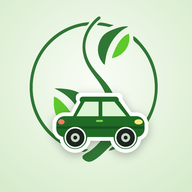
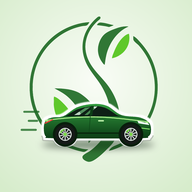
ไอคอนแอป: เปลี่ยนเป็นรถสปอร์ต ล้อแม็ก ไฟ LED
Claude-Session: https://claude.ai/code/session_01LF5UMseUCPsGUhdau5Lo9j

Changed region(s): [[0.0938, 0.4688, 0.8125, 0.8125]]

diff --git a/app.js b/app.js
@@ -223,7 +223,7 @@ function installCard() {
   var how = FS.prompt ? '<button data-act="install">ติดตั้งแอป</button>'
     : FS.ios ? '<div class="mute" style="font-size:13px;margin-top:4px">แตะปุ่ม <b>แชร์</b> ด้านล่างของ Safari แล้วเลือก <b>เพิ่มไปยังหน้าจอโฮม</b></div>'
     : '<div class="mute" style="font-size:13px;margin-top:4px">แตะ ⋮ มุมขวาบนของ Chrome แล้วเลือก <b>เพิ่มลงในหน้าจอหลัก</b> หรือ <b>ติดตั้งแอป</b></div>';
-  return '<div class="card install"><img src="icons/icon-192.png?v=2" alt=""><div><b>เปิดเป็นแอปเต็มจอ</b><div class="mute" style="font-size:14px">ติดตั้งไว้บนหน้าจอหลัก เปิดแล้วเต็มจอทุกครั้ง ไม่มีแถบเบราว์เซอร์</div>' +
+  return '<div class="card install"><img src="icons/icon-192.png?v=3" alt=""><div><b>เปิดเป็นแอปเต็มจอ</b><div class="mute" style="font-size:14px">ติดตั้งไว้บนหน้าจอหลัก เปิดแล้วเต็มจอทุกครั้ง ไม่มีแถบเบราว์เซอร์</div>' +
     how + '<div class="btns"><button class="ghost" data-act="installhide">ไม่ต้องแสดงอีก</button></div></div></div>';
 }
 

diff --git a/index.html b/index.html
@@ -6,9 +6,9 @@
 <meta name="color-scheme" content="light dark">
 <meta name="theme-color" content="#1f6b25">
 <title>รถส่วนกลางศิริกุล</title>
-<link rel="manifest" href="manifest.webmanifest?v=2">
-<link rel="icon" type="image/png" href="icons/icon-192.png?v=2">
-<link rel="apple-touch-icon" href="icons/apple-touch-icon.png?v=2">
+<link rel="manifest" href="manifest.webmanifest?v=3">
+<link rel="icon" type="image/png" href="icons/icon-192.png?v=3">
+<link rel="apple-touch-icon" href="icons/apple-touch-icon.png?v=3">
 <meta name="mobile-web-app-capable" content="yes">
 <meta name="apple-mobile-web-app-capable" content="yes">
 <meta name="apple-mobile-web-app-status-bar-style" content="black-translucent">
@@ -24,7 +24,7 @@
     document.documentElement.setAttribute('data-theme', t);
   })();
 </script>
-<link rel="stylesheet" href="app.css?v=20261122a">
+<link rel="stylesheet" href="app.css?v=20261122b">
 </head>
 <body>
 <header>
@@ -44,6 +44,6 @@
 </nav>
 
 <script src="https://cdnjs.cloudflare.com/ajax/libs/qrcodejs/1.0.0/qrcode.min.js"></script>
-<script src="app.js?v=20261122a"></script>
+<script src="app.js?v=20261122b"></script>
 </body>
 </html>
